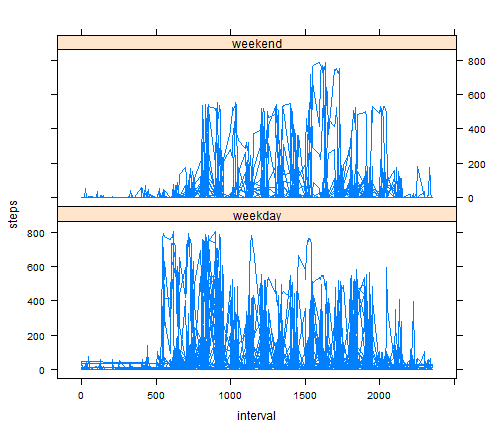
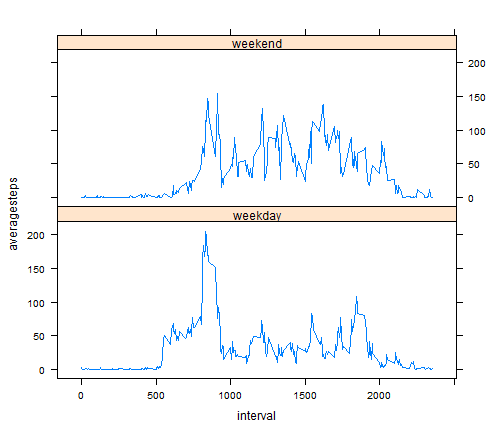
Fix last plot

diff --git a/PA1_template.html b/PA1_template.html
@@ -181,8 +181,19 @@ hljs.initHighlightingOnLoad();
 <body>
 <h1>Reproducible Research Peer Assessment 1</h1>
 
-<pre><code class="r">options(digits = 2)
+<pre><code class="r">
+options(digits = 2)
 opts_chunk$set(echo = TRUE)
+require(plyr)
+</code></pre>
+
+<pre><code>## Loading required package: plyr
+</code></pre>
+
+<pre><code class="r">require(lattice)
+</code></pre>
+
+<pre><code>## Loading required package: lattice
 </code></pre>
 
 <h2>Loading and preprocessing the data</h2>
@@ -196,13 +207,7 @@ activityData &lt;- read.csv(&quot;activity.csv&quot;, header = TRUE)
 <h3>2. Process the data</h3>
 
 <pre><code class="r">
-require(plyr)
-</code></pre>
-
-<pre><code>## Loading required package: plyr
-</code></pre>
-
-<pre><code class="r">activitySummary &lt;- ddply(activityData, .(date), summarize, totalsteps = sum(steps, 
+activitySummary &lt;- ddply(activityData, .(date), summarize, totalsteps = sum(steps, 
     na.rm = TRUE))
 </code></pre>
 
@@ -252,7 +257,8 @@ maxinterval &lt;- IntervalSummary$interval[IntervalSummary$averagesteps == maxst
 
 <h3>1. Calculate and report the total number of missing values in the dataset</h3>
 
-<pre><code class="r">intervalNA &lt;- sum(is.na(activityData$steps))
+<pre><code class="r">
+intervalNA &lt;- sum(is.na(activityData$steps))
 </code></pre>
 
 <p>The total number of intervals with missing step values is 2304.</p>
@@ -311,18 +317,12 @@ for (i in 1:nrow(replaceData)) {
 <h3>2. Make a panel plot containing a time series plot</h3>
 
 <pre><code class="r">
-require(lattice)
+replaceSummary &lt;- ddply(replaceData, .(interval, weekday), summarize, averagesteps = mean(steps))
+xyplot(averagesteps ~ interval | weekday, data = replaceSummary, type = &quot;l&quot;, 
+    layout = c(1, 2))
 </code></pre>
 
-<pre><code>## Loading required package: lattice
-</code></pre>
-
-<pre><code class="r">par(mfrow = c(1, 2))
-xyplot(steps ~ interval | weekday, data = replaceData, type = &quot;l&quot;, layout = c(1, 
-    2))
-</code></pre>
-
[2 lines of base64/hex data omitted]
 
 </body>
 

diff --git a/PA1_template.md b/PA1_template.md
@@ -1,8 +1,23 @@
 # Reproducible Research Peer Assessment 1
 
+
 ```r
+
 options(digits = 2)
 opts_chunk$set(echo = TRUE)
+require(plyr)
+```
+
+```
+## Loading required package: plyr
+```
+
+```r
+require(lattice)
+```
+
+```
+## Loading required package: lattice
 ```
 
 
@@ -22,14 +37,6 @@ activityData <- read.csv("activity.csv", header = TRUE)
 
 ```r
 
-require(plyr)
-```
-
-```
-## Loading required package: plyr
-```
-
-```r
 activitySummary <- ddply(activityData, .(date), summarize, totalsteps = sum(steps, 
     na.rm = TRUE))
 ```
@@ -95,6 +102,7 @@ The 5 minute interval, averaged across all days, with the maximum number of step
 
 
 ```r
+
 intervalNA <- sum(is.na(activityData$steps))
 ```
 
@@ -167,17 +175,11 @@ for (i in 1:nrow(replaceData)) {
 
 ```r
 
-require(lattice)
-```
-
-```
-## Loading required package: lattice
-```
-
-```r
-par(mfrow = c(1, 2))
-xyplot(steps ~ interval | weekday, data = replaceData, type = "l", layout = c(1, 
-    2))
+replaceSummary <- ddply(replaceData, .(interval, weekday), summarize, averagesteps = mean(steps))
+xyplot(averagesteps ~ interval | weekday, data = replaceSummary, type = "l", 
+    layout = c(1, 2))
 ```
 
 ![plot of chunk unnamed-chunk-12](figure/unnamed-chunk-12.png) 
+
+
